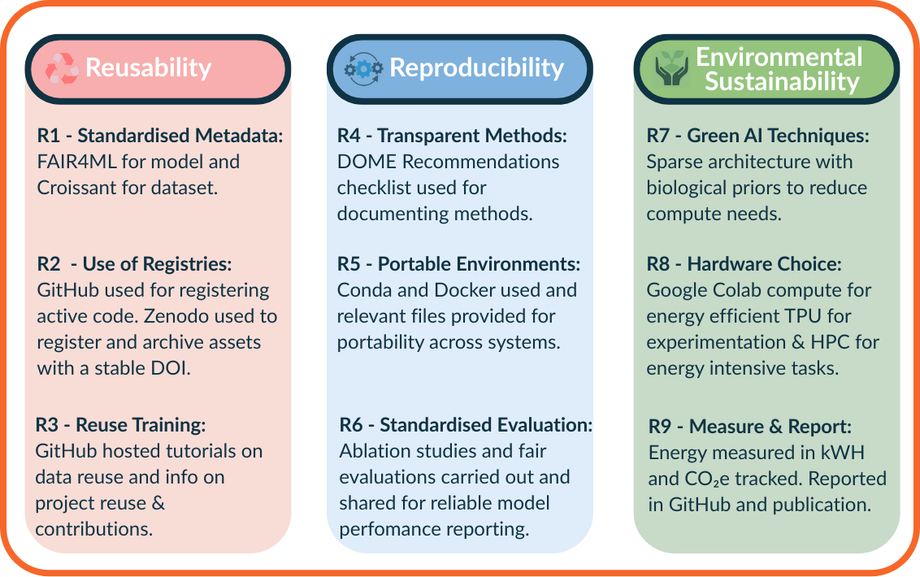
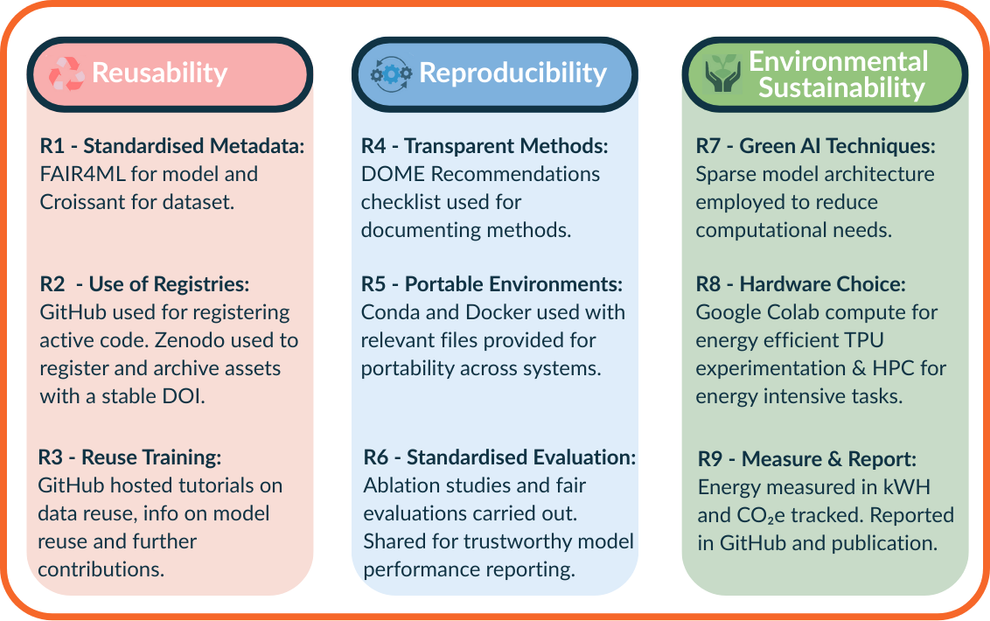
adjustments to new example; image

diff --git a/src/app/pathways/pathways.component.html b/src/app/pathways/pathways.component.html
@@ -1267,7 +1267,7 @@
         <div class="d-flex align-items-center justify-content-between mb-4">
           <div class="d-flex align-items-center">
             <i class="icon icon-common icon-flask pathway-icon mr-3"></i>
-            <h2 class="section-heading mb-0">OSAI Implementation Example: APNet Project</h2>
+            <h2 class="section-heading mb-0">OSAI Implementation Example: APNet</h2>
           </div>
           <a href="https://academic.oup.com/bioinformatics/article/41/3/btaf063/8005858" target="_blank" class="cta-button">
             <i class="icon icon-common icon-external-link-alt"></i>
@@ -1275,7 +1275,7 @@
           </a>
         </div>
         <p class="mb-4">
-          <strong>Project:</strong> APNet: An explainable sparse deep learning model to discover differentially active drivers of severe COVID-19
+          <strong>APNet</strong> is an explainable sparse deep learning model designed to discover differentially active drivers of severe COVID-19. To help contextualise a basic implementation of the OSAI Recommendations 1-9, we highlight the APNet model as an exemplar of a minimal OSAI aligned AI method to guide first time adopters. While most OSAI areas are covered, some are provided with additional context beyond the original publication to ensure full OSAI example coverage for prospective pathway followers.
         </p>
         <img src="assets/img_originals/osai_pathways_example.png" alt="OSAI Implementation Example" style="width:100%;display:block;margin-bottom:2rem;" loading="lazy" decoding="async">
 
